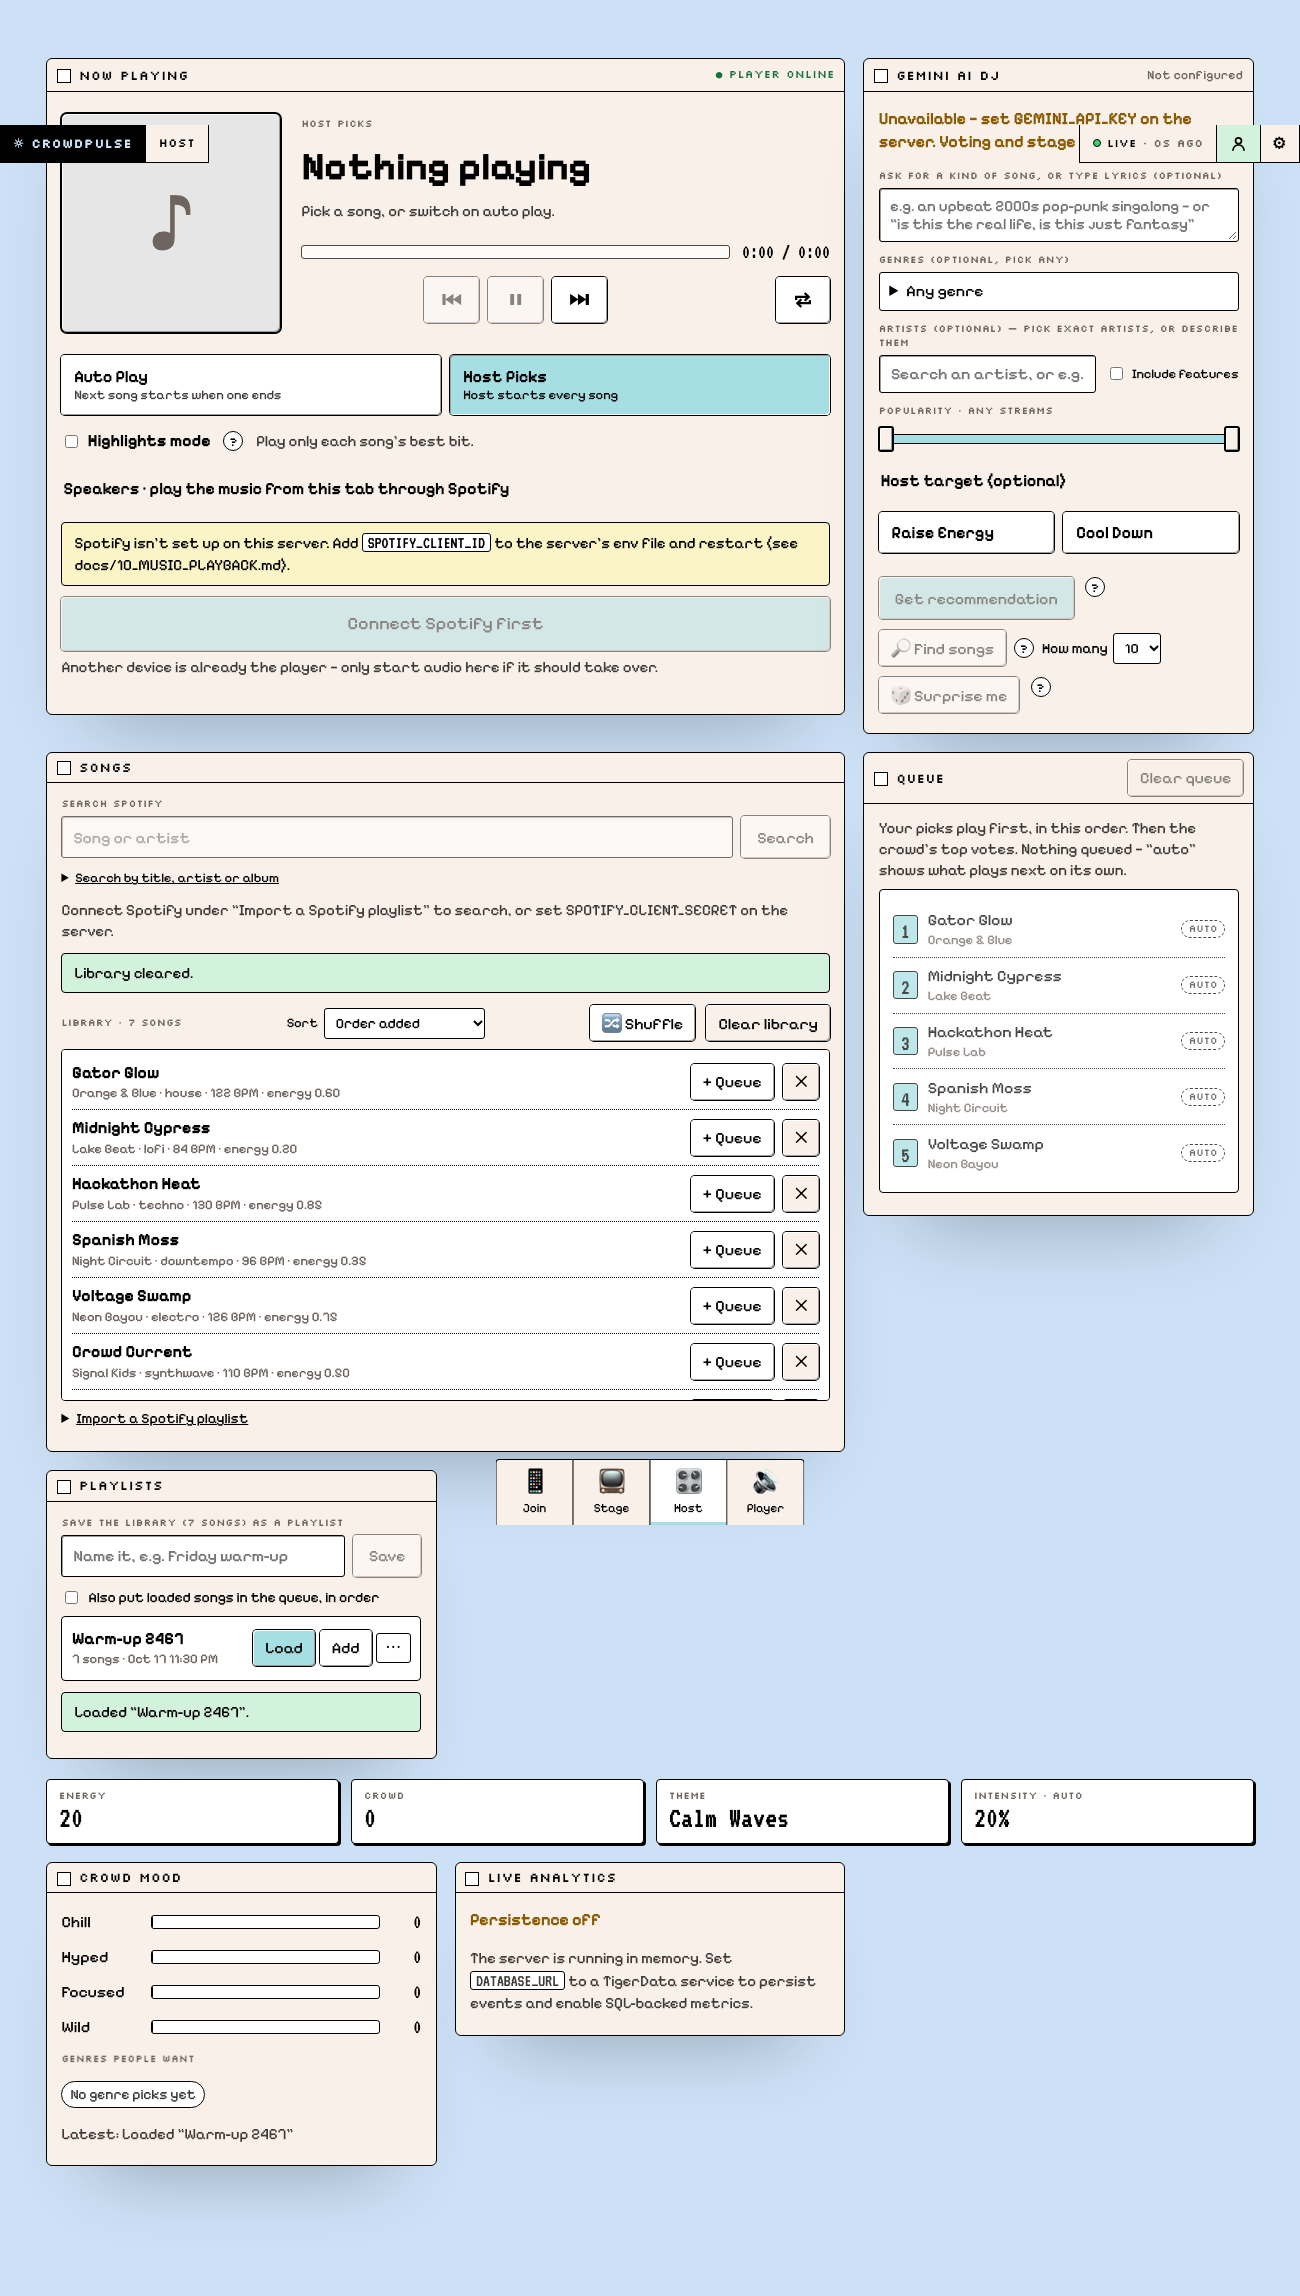
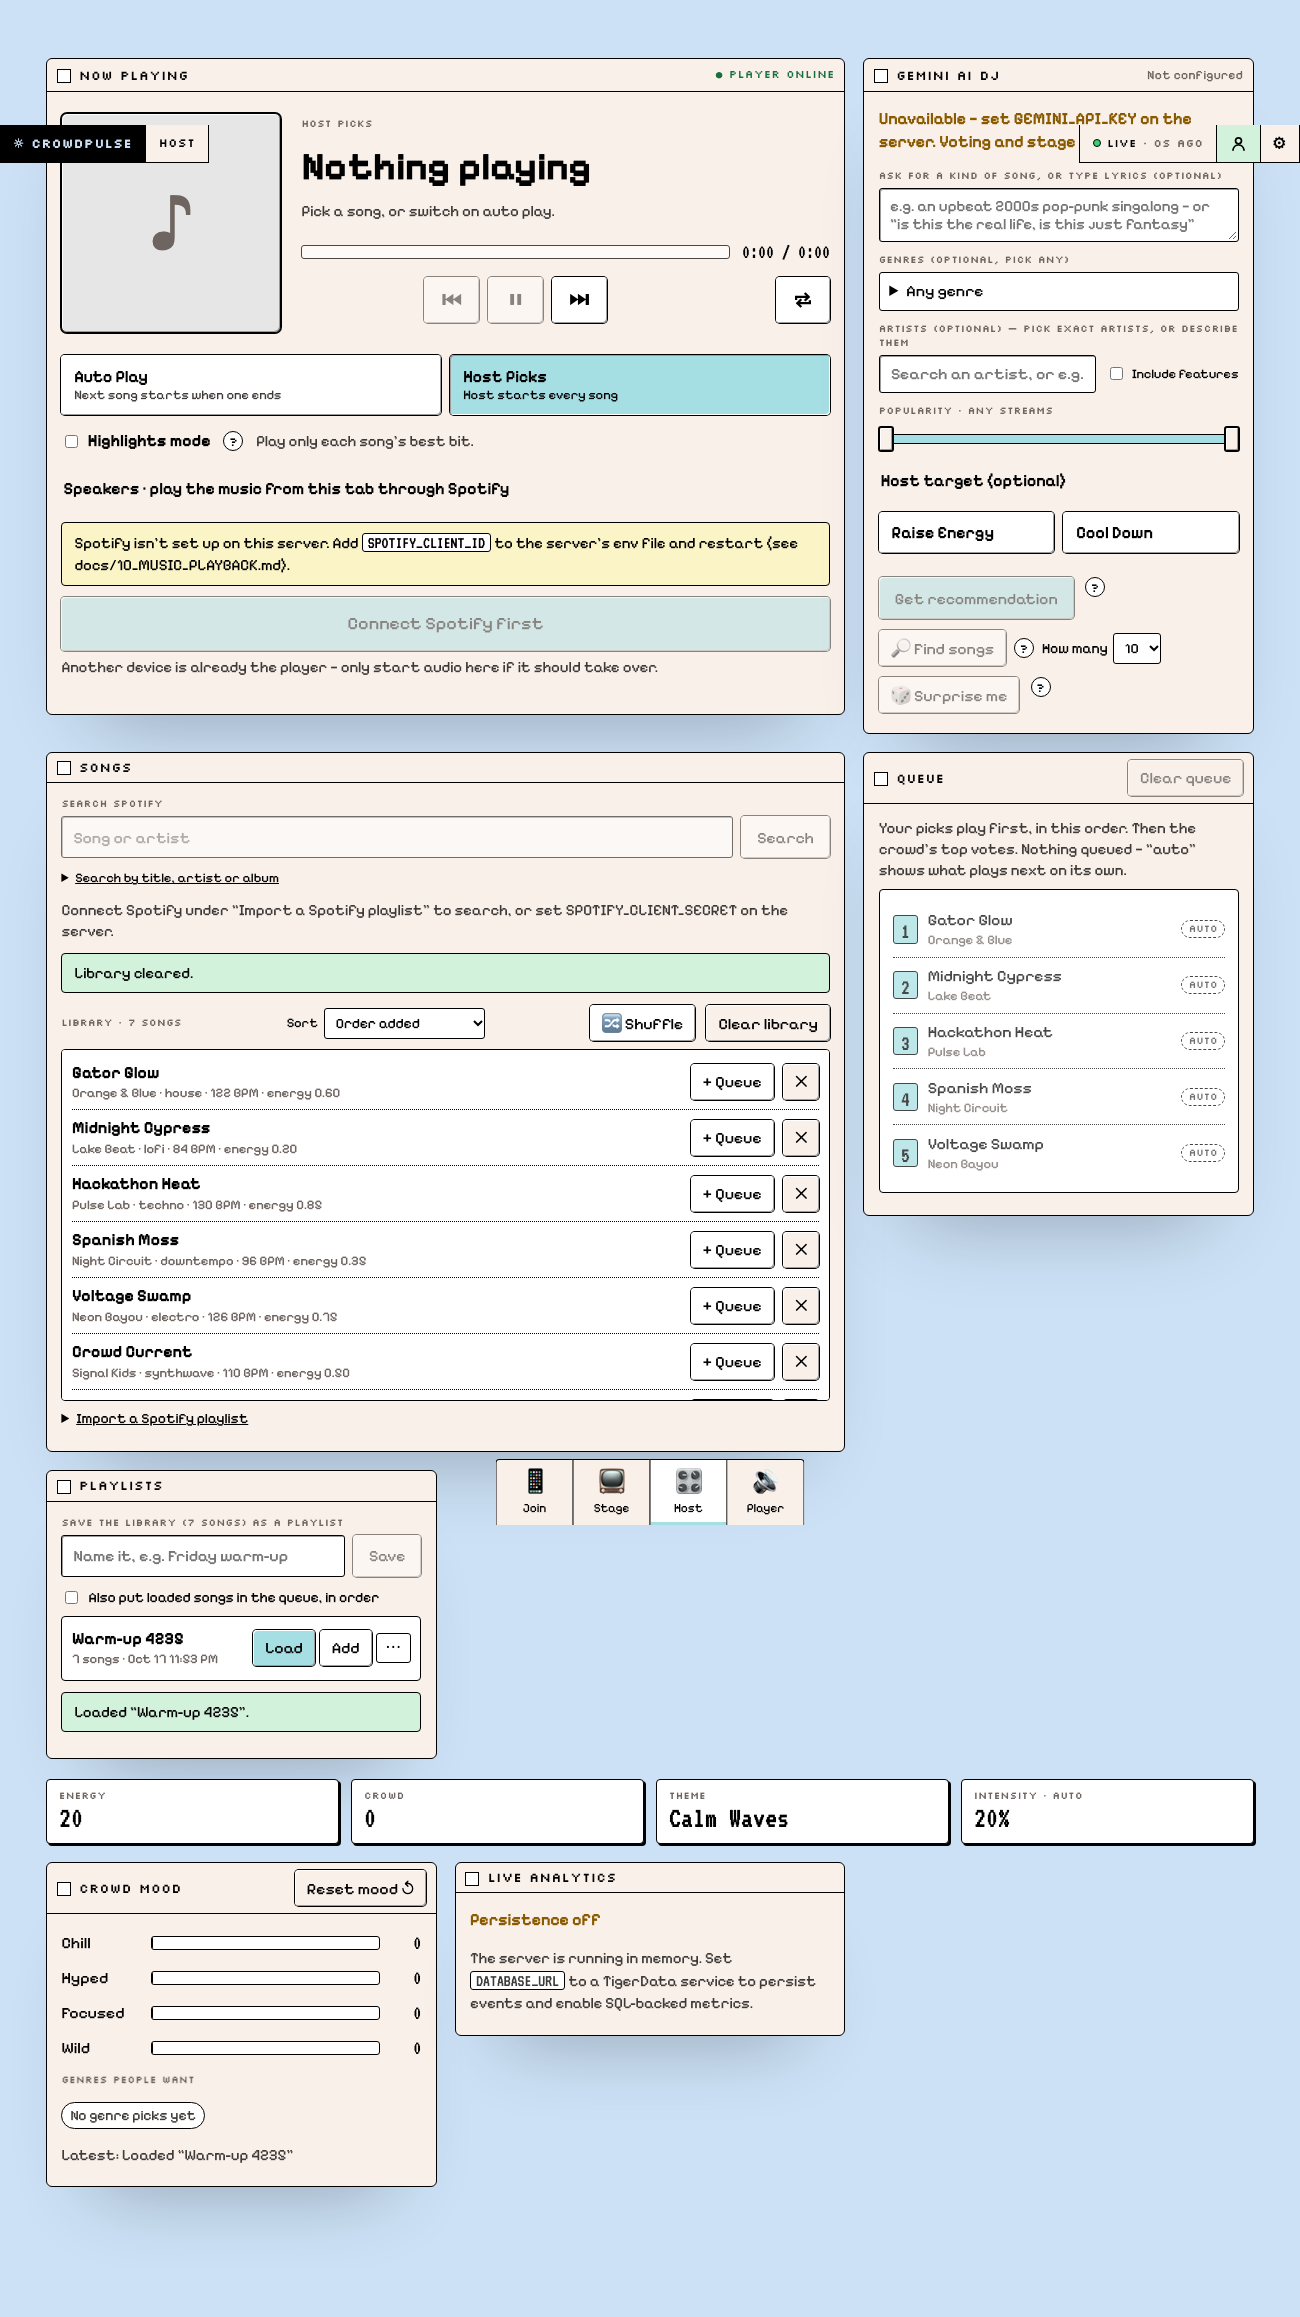
Reset crowd mood
Host "Reset mood" button in the Crowd mood box: clears the mood tally, the
genres people picked and the crowd energy (back to neutral). Votes, queue,
library and playback stay; phones stay joined. Saved and replayed.

Changed region(s): [[0.0308, 0.0309, 0.9846, 0.9586], [0.0308, 0.0309, 0.1538, 0.0618], [0.5846, 0.1237, 0.6462, 0.1546]]

diff --git a/apps/server/src/session.ts b/apps/server/src/session.ts
@@ -129,6 +129,8 @@ export class SessionStore {
   private nowPlaying: CatalogTrack | null = null;
   private moods = new Map<string, Mood>(); // participantId -> latest mood
   private genres = new Map<string, string>(); // participantId -> genre picked when joining
+  /** Phones that joined this run (kept when the host resets the crowd mood, so nobody is sent back). */
+  private joined = new Set<string>();
   private participants = new Set<string>();
   private seenEventIds = new Set<string>();
   /** Events being saved right now, so a retry can wait for the real result. */
@@ -309,7 +311,7 @@ export class SessionStore {
   participantState(participantId: string): ParticipantState {
     return {
       run: this.run,
-      joined: this.moods.has(participantId),
+      joined: this.joined.has(participantId),
       mood: this.moods.get(participantId) ?? null,
       genre: this.genres.get(participantId) ?? null,
       votes: this.catalog.filter((t) => this.votes.get(t.id)?.has(participantId)).map((t) => t.id),
@@ -326,6 +328,7 @@ export class SessionStore {
       record: { eventType: "mood", value: null, metadata: { mood: input.mood, ...(input.genre ? { genre: input.genre } : {}) } },
       commit: () => {
         this.moods.set(input.participantId, input.mood);
+        this.joined.add(input.participantId);
         if (input.genre) this.genres.set(input.participantId, input.genre);
         else this.genres.delete(input.participantId);
         return {
@@ -586,6 +589,28 @@ export class SessionStore {
   recentlyPlayed(n: number): string[] {
     const past = [...this.lastPlayedAt.entries()].sort((a, b) => b[1] - a[1]).map(([id]) => id);
     return [...(this.nowPlaying ? [this.nowPlaying.id] : []), ...past.filter((id) => id !== this.nowPlaying?.id)].slice(0, n);
+  }
+
+  /**
+   * Host action: reset the crowd mood — the mood tally, the genres people picked and the crowd
+   * energy (back to neutral). Votes, queue, library and playback stay; phones stay joined.
+   */
+  resetCrowd(): Promise<EventOutcome> {
+    return this.exclusive(async () => {
+      const saved = await this.persistHostAction("crowd_reset", {});
+      if (saved) return saved;
+      this.applyCrowdReset();
+      this.change({ type: "crowd.reset", message: "Crowd mood reset — waiting for fresh vibes" });
+      return { status: "accepted", state: this.getState() };
+    });
+  }
+
+  private applyCrowdReset() {
+    this.moods.clear();
+    this.genres.clear();
+    this.activity = [];
+    this.energyHistory = [];
+    this.recomputeEnergy();
   }
 
   // --- Saved playlists ---
@@ -1023,6 +1048,7 @@ export class SessionStore {
         case "mood":
           if (r.participantId && MOODS.includes(meta.mood as Mood)) {
             this.moods.set(r.participantId, meta.mood as Mood);
+            this.joined.add(r.participantId);
             if (typeof meta.genre === "string" && GENRE_PATTERN.test(meta.genre)) this.genres.set(r.participantId, meta.genre);
             else this.genres.delete(r.participantId);
             this.activity.push({ at, weight: ACTIVITY_WEIGHT.mood });
@@ -1081,6 +1107,9 @@ export class SessionStore {
           if (pl && typeof pl.id === "string" && typeof pl.name === "string" && Array.isArray(pl.tracks)) this.playlists.set(pl.id, pl);
           break;
         }
+        case "crowd_reset":
+          this.applyCrowdReset();
+          break;
         case "playlist_delete":
           if (typeof meta.id === "string") this.playlists.delete(meta.id);
           break;
@@ -1250,7 +1279,8 @@ export class SessionStore {
       | "host_queue"
       | "highlight"
       | "playlist_save"
-      | "playlist_delete",
+      | "playlist_delete"
+      | "crowd_reset",
     metadata: Record<string, unknown>,
   ): Promise<Rejection | null> {
     try {
@@ -1393,6 +1423,7 @@ export class SessionStore {
     this.nowPlaying = null;
     this.moods.clear();
     this.genres.clear();
+    this.joined.clear();
     this.participants.clear();
     this.activity = [];
     this.energyHistory = [];

diff --git a/apps/web/src/pages/HostPage.tsx b/apps/web/src/pages/HostPage.tsx
@@ -20,7 +20,7 @@ import { QueueCard } from "../components/QueueCard";
 import { PlaylistsCard } from "../components/PlaylistsCard";
 import { SettingsPanel } from "../components/SettingsPanel";
 import { ProfileIcon } from "../components/Icons";
-import { hostReset, hostSetAppearance, hostSetVisual } from "../lib/host";
+import { hostReset, hostResetCrowd, hostSetAppearance, hostSetVisual } from "../lib/host";
 import { presetLabel } from "../lib/theme";
 import { PlayerCard } from "../components/PlayerCard";
 import { useAutoHide } from "../hooks/useAutoHide";
@@ -47,6 +47,8 @@ export function HostPage() {
     text: string;
   } | null>(null);
   useAutoHide(message, () => setMessage(null));
+  const [crowdMsg, setCrowdMsg] = useState<{ kind: "accepted" | "rejected"; text: string } | null>(null);
+  useAutoHide(crowdMsg, () => setCrowdMsg(null));
 
 
   async function run(label: string, action: () => Promise<{ state: SessionState }>) {
@@ -328,8 +330,30 @@ export function HostPage() {
           </div>
         </div>
 
-        <div className="host-block">
-          <h2>Crowd mood</h2>
+        <div className="host-block crowd-card">
+          <div className="analytics-head">
+            <h2>Crowd mood</h2>
+            <button
+              type="button"
+              className="btn ghost compact"
+              disabled={busy || !access.ready}
+              onClick={() => {
+                if (window.confirm("Reset the crowd mood? Clears the mood tally, the genres people picked and the crowd energy. Votes, the queue and the library stay.")) {
+                  void (async () => {
+                    try {
+                      applyState((await hostResetCrowd(sessionCode, await access.getHeaders())).state);
+                      setCrowdMsg({ kind: "accepted", text: "Crowd mood reset." });
+                    } catch (err) {
+                      setCrowdMsg({ kind: "rejected", text: (err as Error).message });
+                    }
+                  })();
+                }
+              }}
+              title="Clear moods, picked genres and crowd energy (votes, queue and library stay)"
+            >
+              Reset mood ↺
+            </button>
+          </div>
           <ul className="mood-bars">
             {MOODS.map((m) => {
               const n = state?.moods[m] ?? 0;
@@ -345,6 +369,7 @@ export function HostPage() {
               );
             })}
           </ul>
+          {crowdMsg && <p className={`feedback feedback-${crowdMsg.kind}`}>{crowdMsg.text}</p>}
           <h3 className="metric-label">Genres people want</h3>
           <ul className="genre-tally">
             {Object.entries(state?.genres ?? {})

diff --git a/apps/server/test/attendee.test.ts b/apps/server/test/attendee.test.ts
@@ -309,3 +309,29 @@ describe("host-only analytics", () => {
     expect((await requestApp(app).get("/api/sessions/demo/metrics").set("x-host-key", "k")).status).toBe(200);
   });
 });
+
+describe("reset crowd mood", () => {
+  it("clears moods, picked genres and energy — keeps votes, queue and joined phones — and replays", async () => {
+    const { app, store, saved, vote, me } = setup();
+    for (const [p, mood, genre] of [["participant_m1", "wild", "house"], ["participant_m2", "hyped", "techno"]] as const) {
+      await requestApp(app).post("/api/sessions/demo/moods").send({ sessionId: "demo", eventId: randomUUID(), participantId: p, mood, genre });
+    }
+    await requestApp(app).post("/api/sessions/demo/moods").send({ sessionId: "demo", eventId: randomUUID(), participantId: "participant_att1", mood: "chill" });
+    await vote("track_04");
+    expect(store.getState().moods.wild).toBe(1);
+    const before = store.getState().energyScore;
+    expect((await requestApp(app).post("/api/host/sessions/demo/crowd/reset")).status).toBe(401);
+    expect((await requestApp(app).post("/api/host/sessions/demo/crowd/reset").set("x-host-key", "k")).status).toBe(200);
+    const s = store.getState();
+    expect(Object.values(s.moods).every((n) => n === 0)).toBe(true);
+    expect(s.genres).toEqual({});
+    expect(s.energyScore).toBe(20); // neutral: no activity, no moods
+    expect(s.energyScore).toBeLessThan(before);
+    expect(s.tracks.find((t) => t.id === "track_04")?.votes).toBe(1); // votes stay
+    expect((await me()).body.joined).toBe(true); // phones aren't sent back to join
+    const restored = new SessionStore("demo", "Demo");
+    restored.replay(saved);
+    expect(restored.getState().genres).toEqual({});
+    expect(restored.getState().moods.wild).toBe(0);
+  });
+});

diff --git a/apps/web/e2e/core-loop.spec.ts b/apps/web/e2e/core-loop.spec.ts
@@ -313,3 +313,21 @@ test("Playlists: save the library under a name, clear it, load it back", async (
   await expect(host.locator(".library-card").getByText("Library · 7 songs")).toBeVisible();
   await host.screenshot({ path: evidence("playlists.png"), fullPage: true });
 });
+
+test("The host can reset the crowd mood (votes stay)", async ({ browser, request }) => {
+  const phone = await openPhone(browser); // joins as Wild
+  await phone.getByRole("button", { name: "Vote: Stage Lightning" }).click();
+  const host = await (await browser.newContext({ viewport: { width: 1300, height: 1400 } })).newPage();
+  host.on("dialog", (d) => void d.accept());
+  await host.goto("/host/demo");
+  await host.getByLabel(/Dev host key/).fill(HOST_KEY);
+  const crowd = host.locator(".crowd-card");
+  await expect(crowd.locator(".mood-bars li", { hasText: "wild" })).toContainText("1");
+  await crowd.getByRole("button", { name: /Reset mood/ }).click();
+  await expect(crowd.getByText("Crowd mood reset.")).toBeVisible();
+  await expect(crowd.locator(".mood-bars li", { hasText: "wild" })).toContainText("0");
+  const state = await (await request.get("/api/sessions/demo/state")).json();
+  expect(state.tracks.find((t: { id: string }) => t.id === "track_07").votes).toBe(1);
+  // The phone stays on the vote screen.
+  await expect(phone.getByRole("heading", { name: "Shape the queue" })).toBeVisible();
+});

diff --git a/apps/server/src/app.ts b/apps/server/src/app.ts
@@ -689,6 +689,16 @@ export function createApp(options: AppOptions) {
   app.post("/api/host/sessions/:id/playback/pause", ...requireHost, hostSession, playbackAction("pause"));
   app.post("/api/host/sessions/:id/playback/resume", ...requireHost, hostSession, playbackAction("resume"));
   app.post("/api/host/sessions/:id/previous", ...requireHost, hostSession, playbackAction("previous"));
+  app.post("/api/host/sessions/:id/crowd/reset", ...requireHost, hostSession, async (req, res) => {
+    const outcome = await sessions.get(req.params.id)!.resetCrowd();
+    if (outcome.status === "rejected") {
+      res.status(outcome.httpStatus).json({ error: outcome.reason });
+      return;
+    }
+    log({ kind: "host.crowd_reset", sessionId: req.params.id });
+    res.json(outcome);
+  });
+
   // --- Saved playlists (host-only): name, store, load back into the library ---
   const PlaylistName = z
     .string()

diff --git a/apps/web/src/lib/host.ts b/apps/web/src/lib/host.ts
@@ -33,6 +33,10 @@ async function hostPost(path: string, auth: HostHeaders, body: object = {}, meth
 export const hostSetVisual = (sessionId: string, auth: HostHeaders, visual: VisualState | null) =>
   hostPost(`/api/host/sessions/${encodeURIComponent(sessionId)}/visual`, auth, { visual });
 
+/** Reset just the crowd mood (moods, picked genres, energy). Votes, queue and library stay. */
+export const hostResetCrowd = (sessionId: string, auth: HostHeaders) =>
+  hostPost(`/api/host/sessions/${encodeURIComponent(sessionId)}/crowd/reset`, auth);
+
 export const hostReset = (sessionId: string, auth: HostHeaders) =>
   hostPost(`/api/host/sessions/${encodeURIComponent(sessionId)}/reset`, auth);
 

diff --git a/apps/server/src/db.ts b/apps/server/src/db.ts
@@ -36,7 +36,8 @@ export type PersistedEventType =
   | "unvote"
   | "highlight"
   | "playlist_save"
-  | "playlist_delete";
+  | "playlist_delete"
+  | "crowd_reset";
 
 export type PersistResult = "stored" | "duplicate";
 
